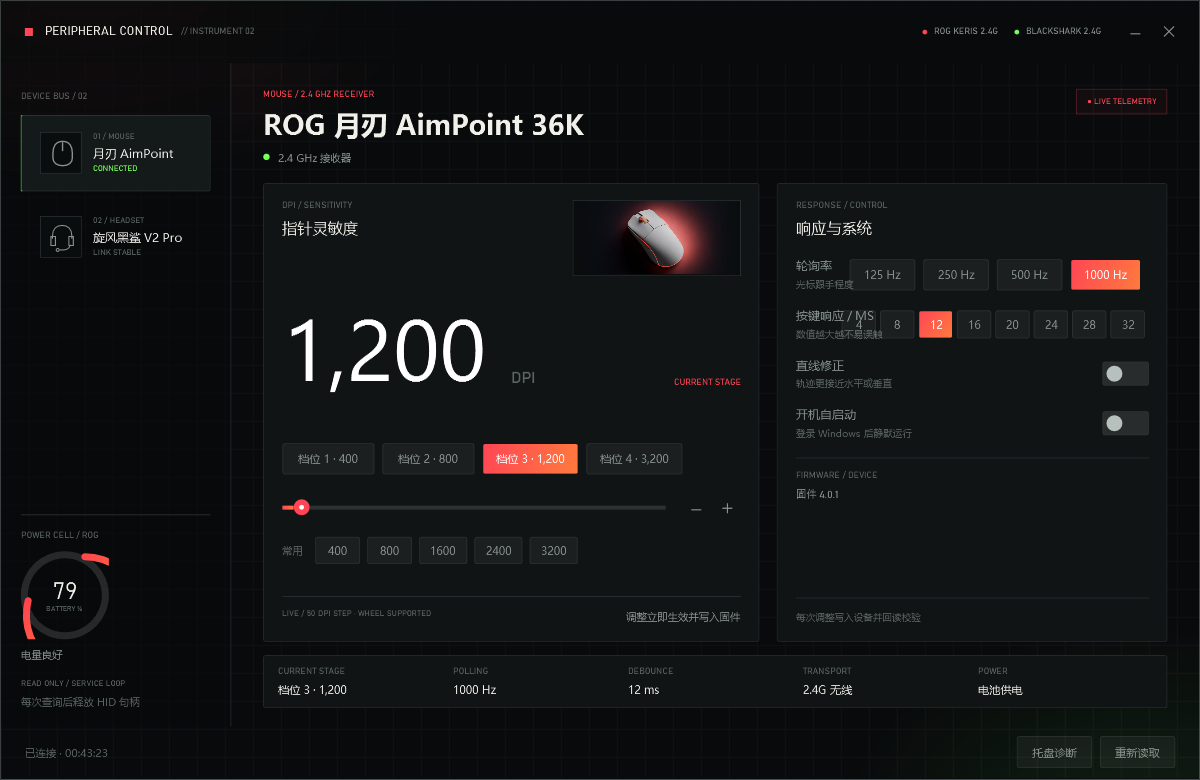
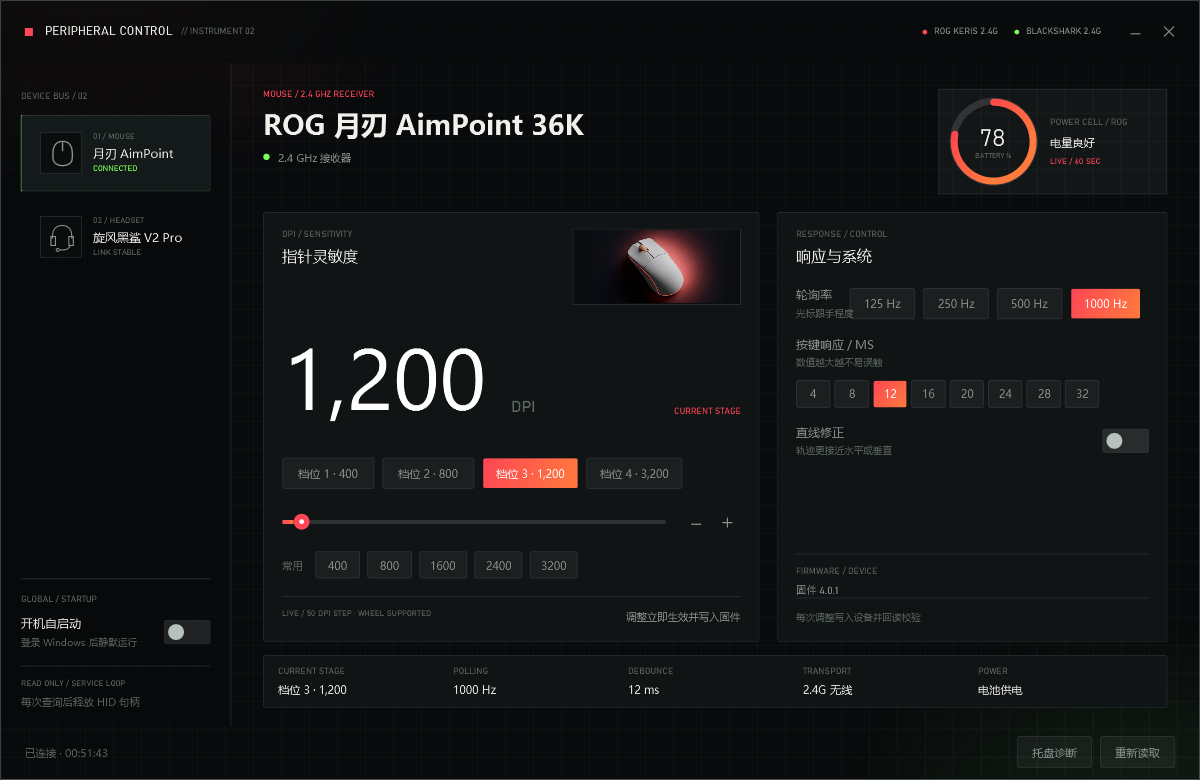
fix: separate mouse telemetry and global startup settings

diff --git a/ui/MainWindow.xaml b/ui/MainWindow.xaml
@@ -453,21 +453,21 @@
 
               <Border Grid.Row="4" BorderBrush="{StaticResource Line}" BorderThickness="0,1,0,0" Padding="0,15,0,0">
                 <StackPanel>
-                  <TextBlock Text="POWER CELL / ROG" Style="{StaticResource UtilityLabel}" Margin="0,0,0,10"/>
-                  <Grid Width="88" Height="88" HorizontalAlignment="Left">
-                    <Ellipse Width="88" Height="88" Stroke="#20FFFFFF" StrokeThickness="7"/>
-                    <Path x:Name="BatteryArc" StrokeThickness="7" StrokeStartLineCap="Round" StrokeEndLineCap="Round"
-                          Stroke="{StaticResource SignalRed}"/>
-                    <StackPanel VerticalAlignment="Center" HorizontalAlignment="Center">
-                      <TextBlock x:Name="BatteryValue" Text="--" FontFamily="Bahnschrift" FontSize="24" FontWeight="Light"
-                                 Foreground="{StaticResource TextPrimary}" HorizontalAlignment="Center"/>
-                      <TextBlock Text="BATTERY %" FontFamily="Bahnschrift" FontSize="7" Foreground="{StaticResource TextTertiary}"
-                                 HorizontalAlignment="Center" Margin="0,-2,0,0"/>
+                  <TextBlock Text="GLOBAL / STARTUP" Style="{StaticResource UtilityLabel}" Margin="0,0,0,10"/>
+                  <Grid>
+                    <StackPanel>
+                      <TextBlock Text="开机自启动" FontSize="12" Foreground="{StaticResource TextPrimary}"/>
+                      <TextBlock Text="登录 Windows 后静默运行" FontSize="9.5" Foreground="{StaticResource TextTertiary}" Margin="0,5,0,0"/>
                     </StackPanel>
+                    <ToggleButton x:Name="AutostartToggle" Style="{StaticResource TacticalToggle}"
+                                  HorizontalAlignment="Right" VerticalAlignment="Center"/>
                   </Grid>
-                  <TextBlock x:Name="BatteryHint" Text="正在读取…" FontSize="10" Foreground="{StaticResource TextSecondary}" Margin="0,8,0,0"/>
-                  <TextBlock Text="READ ONLY / SERVICE LOOP" FontFamily="Bahnschrift" FontSize="8" Foreground="{StaticResource TextTertiary}" Margin="0,16,0,0"/>
-                  <TextBlock Text="每次查询后释放 HID 句柄" FontSize="10" Foreground="{StaticResource TextTertiary}" Margin="0,6,0,0" TextWrapping="Wrap"/>
+                  <Border BorderBrush="{StaticResource Line}" BorderThickness="0,1,0,0" Margin="0,16,0,0" Padding="0,12,0,0">
+                    <StackPanel>
+                      <TextBlock Text="READ ONLY / SERVICE LOOP" FontFamily="Bahnschrift" FontSize="8" Foreground="{StaticResource TextTertiary}"/>
+                      <TextBlock Text="每次查询后释放 HID 句柄" FontSize="10" Foreground="{StaticResource TextTertiary}" Margin="0,6,0,0" TextWrapping="Wrap"/>
+                    </StackPanel>
+                  </Border>
                 </StackPanel>
               </Border>
             </Grid>
@@ -491,8 +491,30 @@
                     <TextBlock x:Name="ConnText" Text="2.4 GHz 接收器" FontSize="10.5" Foreground="{StaticResource TextSecondary}" Margin="8,0,0,0"/>
                   </StackPanel>
                 </StackPanel>
-                <Border HorizontalAlignment="Right" VerticalAlignment="Top" Background="#0DFF4655" BorderBrush="#4DFF4655" BorderThickness="1" Padding="10,7">
-                  <TextBlock Text="● LIVE TELEMETRY" FontFamily="Bahnschrift" FontSize="8" Foreground="{StaticResource SignalRed}"/>
+                <Border HorizontalAlignment="Right" VerticalAlignment="Top" Background="#0CFFFFFF"
+                        BorderBrush="{StaticResource Line}" BorderThickness="1" Padding="10,8">
+                  <Grid>
+                    <Grid.ColumnDefinitions>
+                      <ColumnDefinition Width="88"/>
+                      <ColumnDefinition Width="Auto"/>
+                    </Grid.ColumnDefinitions>
+                    <Grid Width="88" Height="88">
+                      <Ellipse Width="88" Height="88" Stroke="#20FFFFFF" StrokeThickness="7"/>
+                      <Path x:Name="BatteryArc" StrokeThickness="7" StrokeStartLineCap="Round" StrokeEndLineCap="Round"
+                            Stroke="{StaticResource SignalRed}"/>
+                      <StackPanel VerticalAlignment="Center" HorizontalAlignment="Center">
+                        <TextBlock x:Name="BatteryValue" Text="--" FontFamily="Bahnschrift" FontSize="24" FontWeight="Light"
+                                   Foreground="{StaticResource TextPrimary}" HorizontalAlignment="Center"/>
+                        <TextBlock Text="BATTERY %" FontFamily="Bahnschrift" FontSize="7" Foreground="{StaticResource TextTertiary}"
+                                   HorizontalAlignment="Center" Margin="0,-2,0,0"/>
+                      </StackPanel>
+                    </Grid>
+                    <StackPanel Grid.Column="1" Margin="12,0,0,0" VerticalAlignment="Center" MinWidth="106">
+                      <TextBlock Text="POWER CELL / ROG" Style="{StaticResource UtilityLabel}"/>
+                      <TextBlock x:Name="BatteryHint" Text="正在读取…" FontSize="11" Foreground="{StaticResource TextPrimary}" Margin="0,7,0,0"/>
+                      <TextBlock Text="LIVE / 60 SEC" FontFamily="Bahnschrift" FontSize="8" Foreground="{StaticResource SignalRed}" Margin="0,6,0,0"/>
+                    </StackPanel>
+                  </Grid>
                 </Border>
               </Grid>
 
@@ -593,8 +615,8 @@
                       <RowDefinition Height="Auto"/>
                       <RowDefinition Height="Auto"/>
                       <RowDefinition Height="Auto"/>
-                      <RowDefinition Height="Auto"/>
                       <RowDefinition Height="*"/>
+                      <RowDefinition Height="Auto"/>
                       <RowDefinition Height="Auto"/>
                     </Grid.RowDefinitions>
                     <StackPanel Grid.Row="0">
@@ -609,26 +631,19 @@
                       </StackPanel>
                       <StackPanel x:Name="RatePanel" Orientation="Horizontal" HorizontalAlignment="Right" VerticalAlignment="Center"/>
                     </Grid>
-                    <Grid Grid.Row="2" Margin="0,16,0,0">
+                    <StackPanel Grid.Row="2" Margin="0,16,0,0">
                       <StackPanel>
                         <TextBlock Text="按键响应 / MS" FontSize="12" Foreground="{StaticResource TextSecondary}"/>
                         <TextBlock Text="数值越大越不易误触" FontSize="9.5" Foreground="{StaticResource TextTertiary}" Margin="0,4,0,0"/>
                       </StackPanel>
-                      <StackPanel x:Name="DebouncePanel" Orientation="Horizontal" HorizontalAlignment="Right" VerticalAlignment="Center"/>
-                    </Grid>
+                      <StackPanel x:Name="DebouncePanel" Orientation="Horizontal" HorizontalAlignment="Left" Margin="0,10,0,0"/>
+                    </StackPanel>
                     <Grid Grid.Row="3" Margin="0,16,0,0">
                       <StackPanel>
                         <TextBlock Text="直线修正" FontSize="12" Foreground="{StaticResource TextSecondary}"/>
                         <TextBlock Text="轨迹更接近水平或垂直" FontSize="9.5" Foreground="{StaticResource TextTertiary}" Margin="0,4,0,0"/>
                       </StackPanel>
                       <ToggleButton x:Name="SnapToggle" Style="{StaticResource TacticalToggle}" HorizontalAlignment="Right" VerticalAlignment="Center"/>
-                    </Grid>
-                    <Grid Grid.Row="4" Margin="0,16,0,0">
-                      <StackPanel>
-                        <TextBlock Text="开机自启动" FontSize="12" Foreground="{StaticResource TextSecondary}"/>
-                        <TextBlock Text="登录 Windows 后静默运行" FontSize="9.5" Foreground="{StaticResource TextTertiary}" Margin="0,4,0,0"/>
-                      </StackPanel>
-                      <ToggleButton x:Name="AutostartToggle" Style="{StaticResource TacticalToggle}" HorizontalAlignment="Right" VerticalAlignment="Center"/>
                     </Grid>
                     <Border Grid.Row="5" BorderBrush="{StaticResource Line}" BorderThickness="0,1,0,0" Margin="0,18,0,0" Padding="0,12,0,0">
                       <StackPanel>

diff --git a/src/MainController.cs b/src/MainController.cs
@@ -1217,8 +1217,8 @@ namespace RogMouse
         /// <summary>Draws the battery ring; percent &lt; 0 renders just the track.</summary>
         private void DrawBattery(int percent)
         {
-            double size = 128;
-            double stroke = 9;
+            double size = 88;
+            double stroke = 7;
             double radius = (size - stroke) / 2 - 1;
             var center = new Point(size / 2, size / 2);
 

diff --git a/README.zh-CN.md b/README.zh-CN.md
@@ -9,7 +9,7 @@ Wireless AimPoint 36K 的 DPI、轮询率、按键响应与直线修正，并读
 （`1532:0555`）的电量与充电线状态。不提供蓝牙、EQ、麦克风、THX、灯效或固件修改。
 
 新版界面采用左侧常驻设备导轨，鼠标使用信号红，耳机使用信号绿；两页共享同一套仪器面板
-和状态层级。
+和状态层级。鼠标电量只在鼠标页显示，开机自启动属于全局设置，固定在左侧导轨底部。
 
 - 无需安装 Armoury Crate，也不依赖 .NET SDK 或任何第三方运行库
 - 单文件 exe，约 592 KB（内含 16–256 px 多尺寸图标与主视觉图），.NET Framework 4.x 自带环境即可运行

diff --git a/UX-CONTRACT.md b/UX-CONTRACT.md
@@ -5,6 +5,8 @@
 - The persistent left device rail owns navigation between `鼠标` and `耳机`.
 - The active device is visually marked by a signal bar, raised surface, and `Tag=on`.
 - The rail remains visible on both device pages; a page can never cover navigation.
+- Global app settings live in the rail footer. `开机自启动` is owned there, not inside either
+  device page.
 - Clicking the active device re-reads only when the page is already selected and the action is
   explicitly requested; selecting a different device switches the visible workspace immediately.
 

diff --git a/README.md b/README.md
@@ -10,7 +10,8 @@ receiver** (`1532:0555`). That page reads the level and the receiver's charging-
 not configure EQ, microphone, THX, lighting, or firmware. Bluetooth is not used.
 
 The redesigned shell uses a persistent device rail for `鼠标` and `耳机`, with the ROG mouse in
-signal red and the Razer headset in signal green.
+signal red and the Razer headset in signal green. Mouse battery telemetry stays inside the mouse
+workspace; global launch-at-logon lives in the rail footer.
 
 Windows 10/11 · .NET Framework 4.x (preinstalled) · x86 single file · ~600 KB
 
